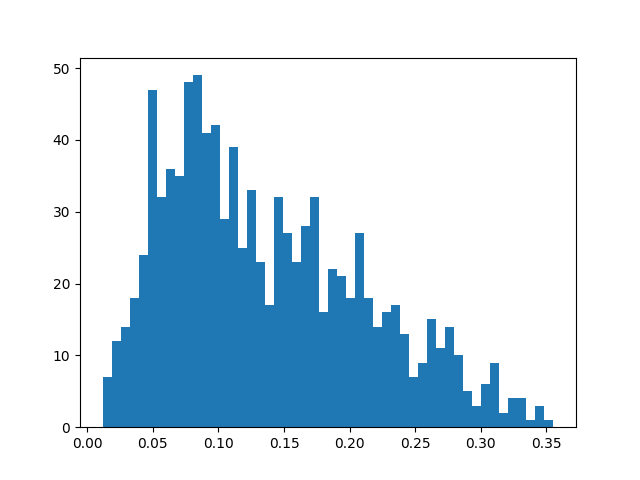
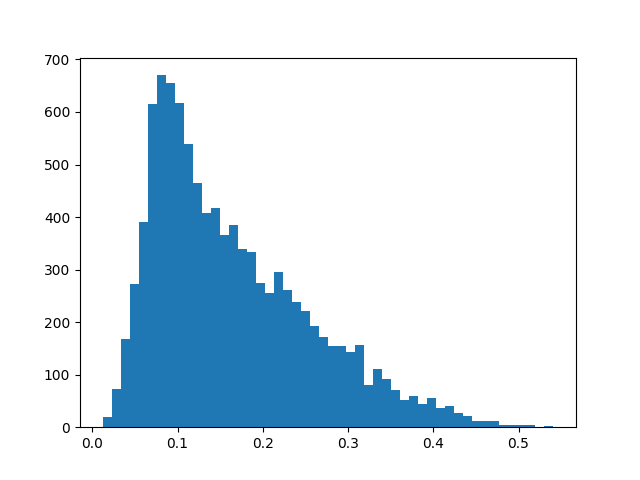
integrated initialization tests

diff --git a/src/eqnn/main.py b/src/eqnn/main.py
@@ -1,6 +1,7 @@
 # main.py
+import csv
 import logging
-from test import test_loop
+import time
 
 import hydra
 import matplotlib.pyplot as plt
@@ -8,6 +9,7 @@ import torch
 from data_loading import load_eurosat_data, load_mnist_data
 from omegaconf import DictConfig
 from plot import plot_results
+from tqdm import tqdm
 from train import train_loop, train_loop_in
 
 logger = logging.getLogger(__name__)
@@ -58,8 +60,8 @@ def main(cfg: DictConfig) -> None:
         image = image.to(dev)
         label = label.to(dev)
         grad_norms = []
-        for seed in range(1, 10000):
-            print(f"Running training with seed {seed}")
+        pbar = tqdm(range(1, 10000), desc="progress") if verbose else range(epochs)
+        for seed in pbar:
             torch.manual_seed(seed)
             grad_norm = train_loop_in(
                 image=image,
@@ -67,15 +69,24 @@ def main(cfg: DictConfig) -> None:
                 device=device,
                 dev=dev,
                 learning_rate=learning_rate,
-                seed=SEED,
                 non_equivariance=non_equivariance,
                 p_err=p_err,
             )
             grad_norms.append(grad_norm)
 
         plt.hist(grad_norms, bins=50)
-        plt.show()
         plt.savefig(f"histo_{non_equivariance}")
+        plt.show()
+
+        csv_path = f"grad_norms_{non_equivariance}.csv"
+
+        with open(csv_path, mode="w", newline="") as f:
+            writer = csv.writer(f)
+            writer.writerow(["seed", "grad_norm"])  # header
+            for seed, grad_norm in enumerate(grad_norms, start=1):
+                writer.writerow([seed, grad_norm])
+
+        logger.info(f"Saved gradient norms to {csv_path}")
     else:
         # TRAINING
         training_output = train_loop(

diff --git a/src/eqnn/train.py b/src/eqnn/train.py
@@ -1,7 +1,6 @@
 # train.py
 import logging
 import os
-import time
 from typing import Any, Literal
 
 import torch
@@ -205,7 +204,6 @@ def train_loop_in(
     non_equivariance: Literal[0, 1, 2],
     p_err: float,
 ) -> float:
-    start_time = time.time()
     dev = torch.device(dev)
 
     params = torch.empty(8, device=dev).uniform_(-0.1, 0.1)
@@ -224,10 +222,5 @@ def train_loop_in(
 
     params_grad = params.grad
     grad_norm = torch.sqrt(torch.dot(params_grad, params_grad)).item()
-    end_time = time.time()
-    duration = end_time - start_time
-    logger.info(
-        f"Gradient norm after single training step: {grad_norm:.6f}, time: {duration:.6f} seconds"
-    )
 
     return grad_norm
